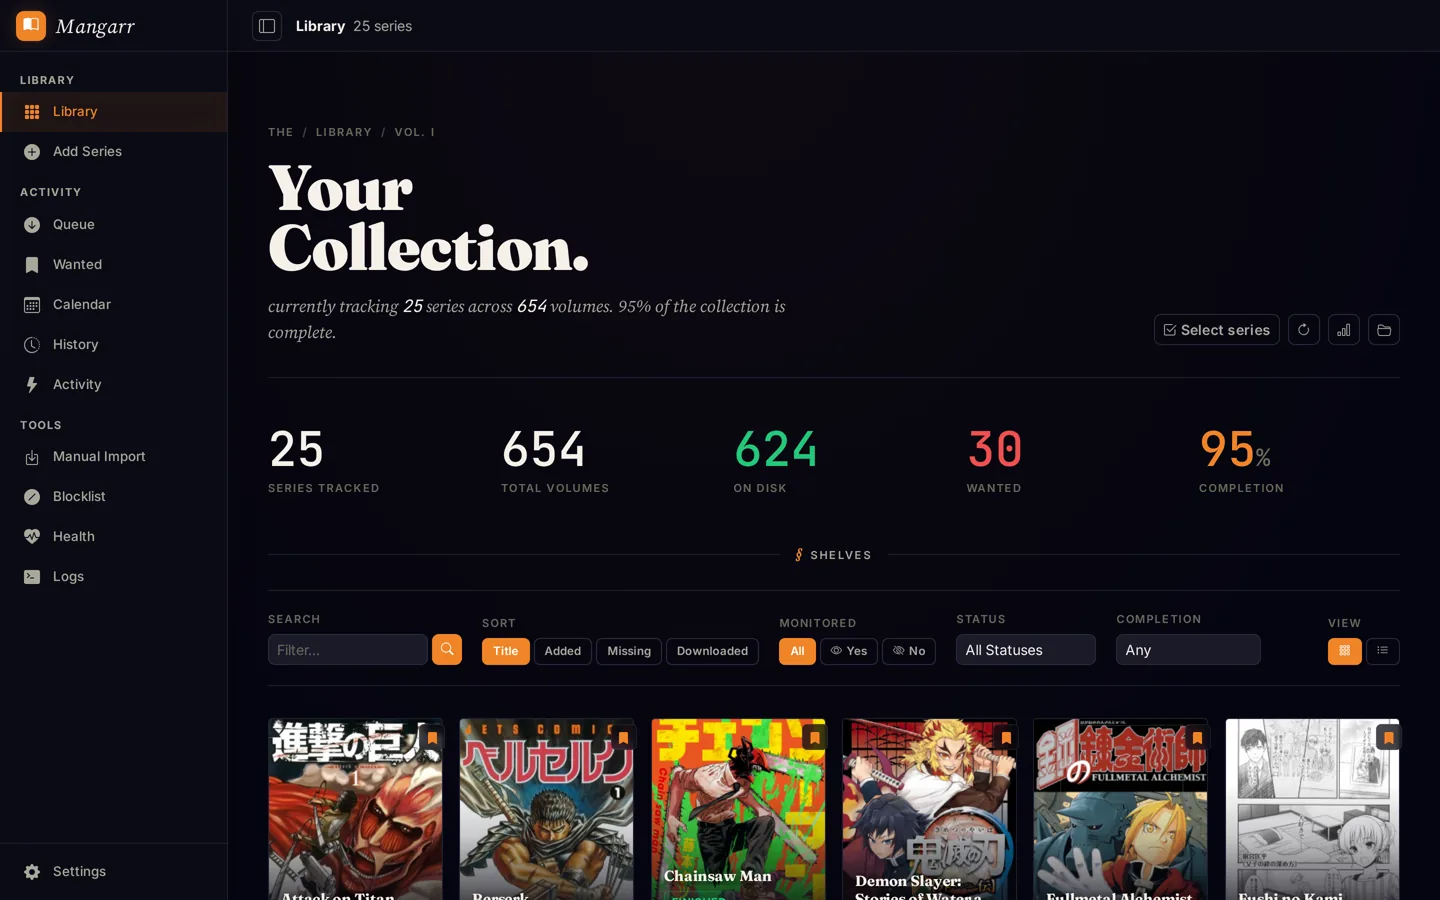
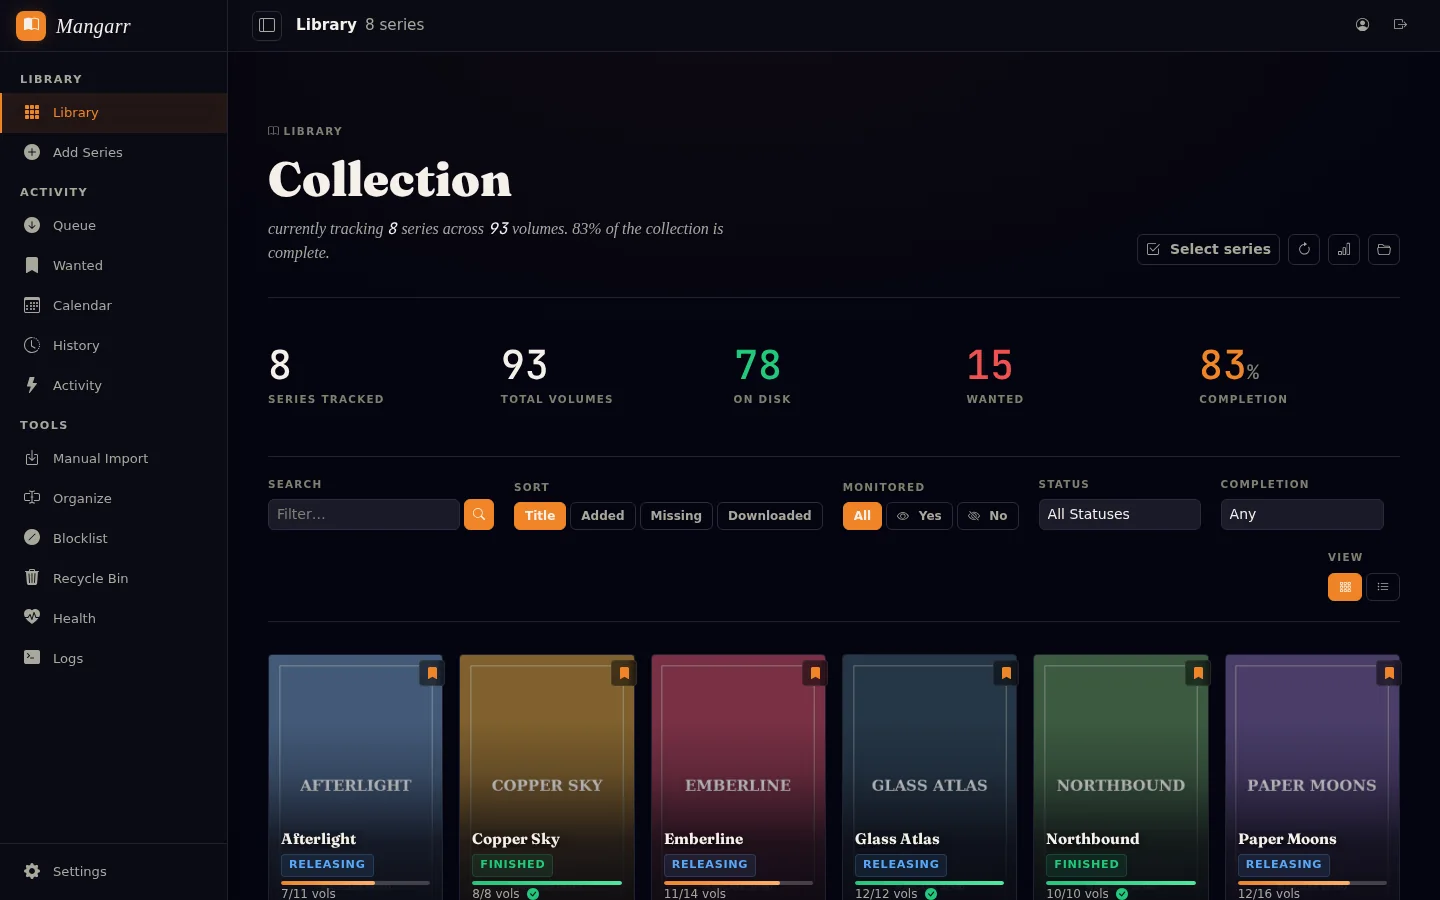
docs: replace library screenshot with demo data

diff --git a/README.md b/README.md
@@ -13,7 +13,7 @@
 
 </div>
 
-![Mangarr library dashboard](docs/assets/mangarr-library.webp)
+![Mangarr demo library dashboard](docs/assets/mangarr-library.webp)
 
 Mangarr monitors manga and light-novel series, searches indexers and direct
 download sources, sends releases to a download client, and imports completed